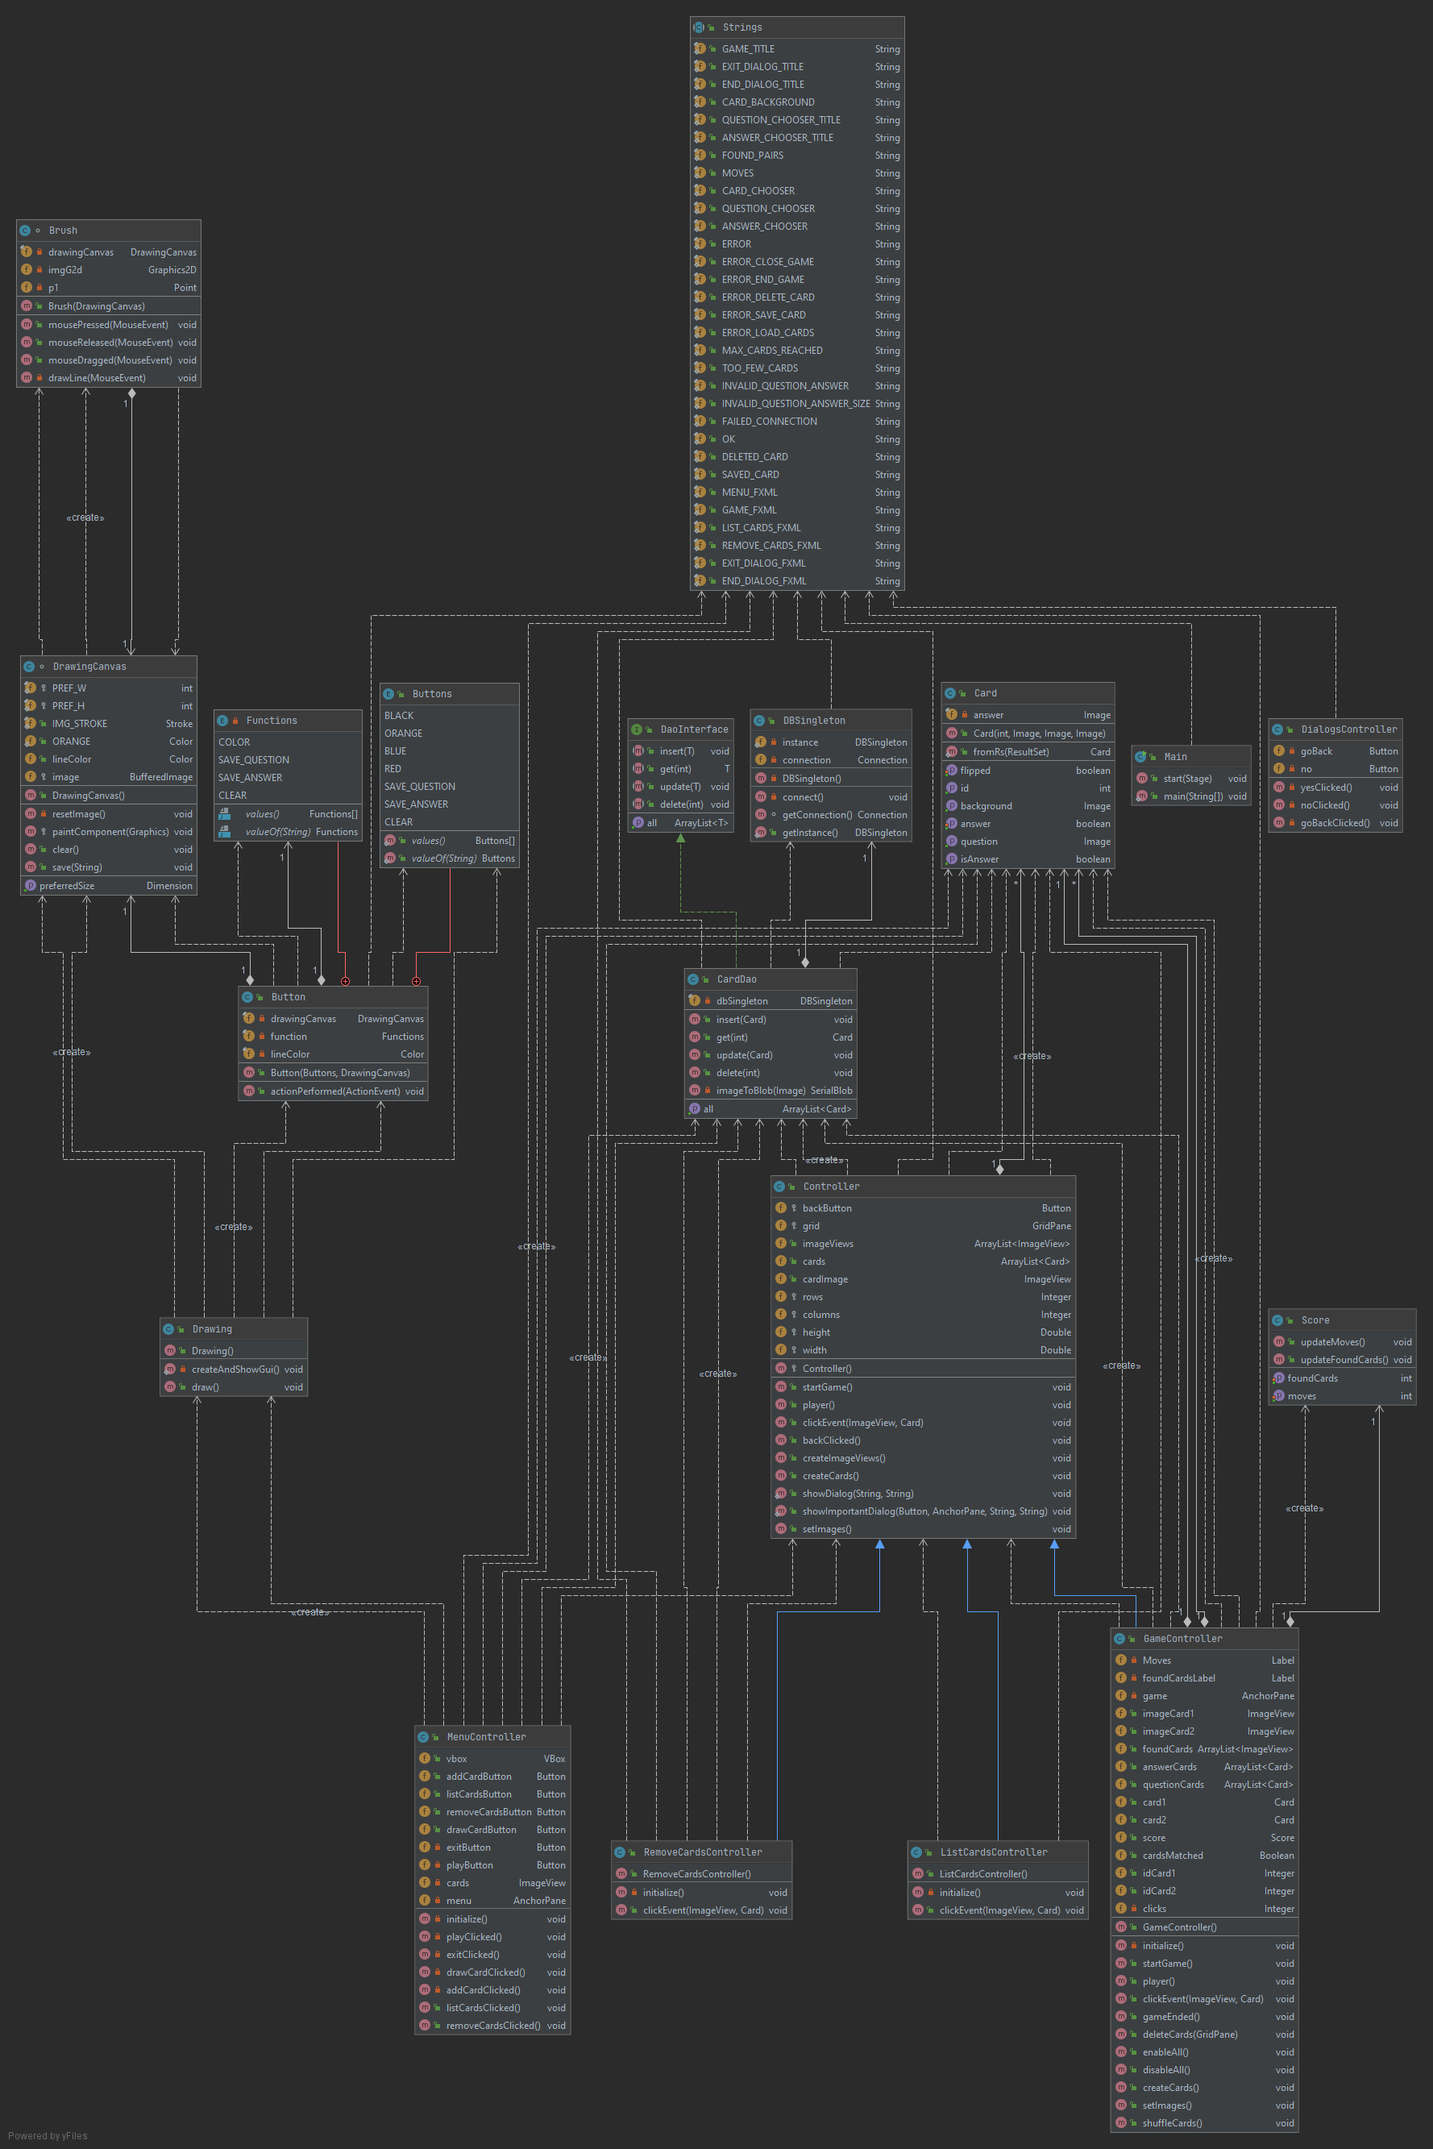
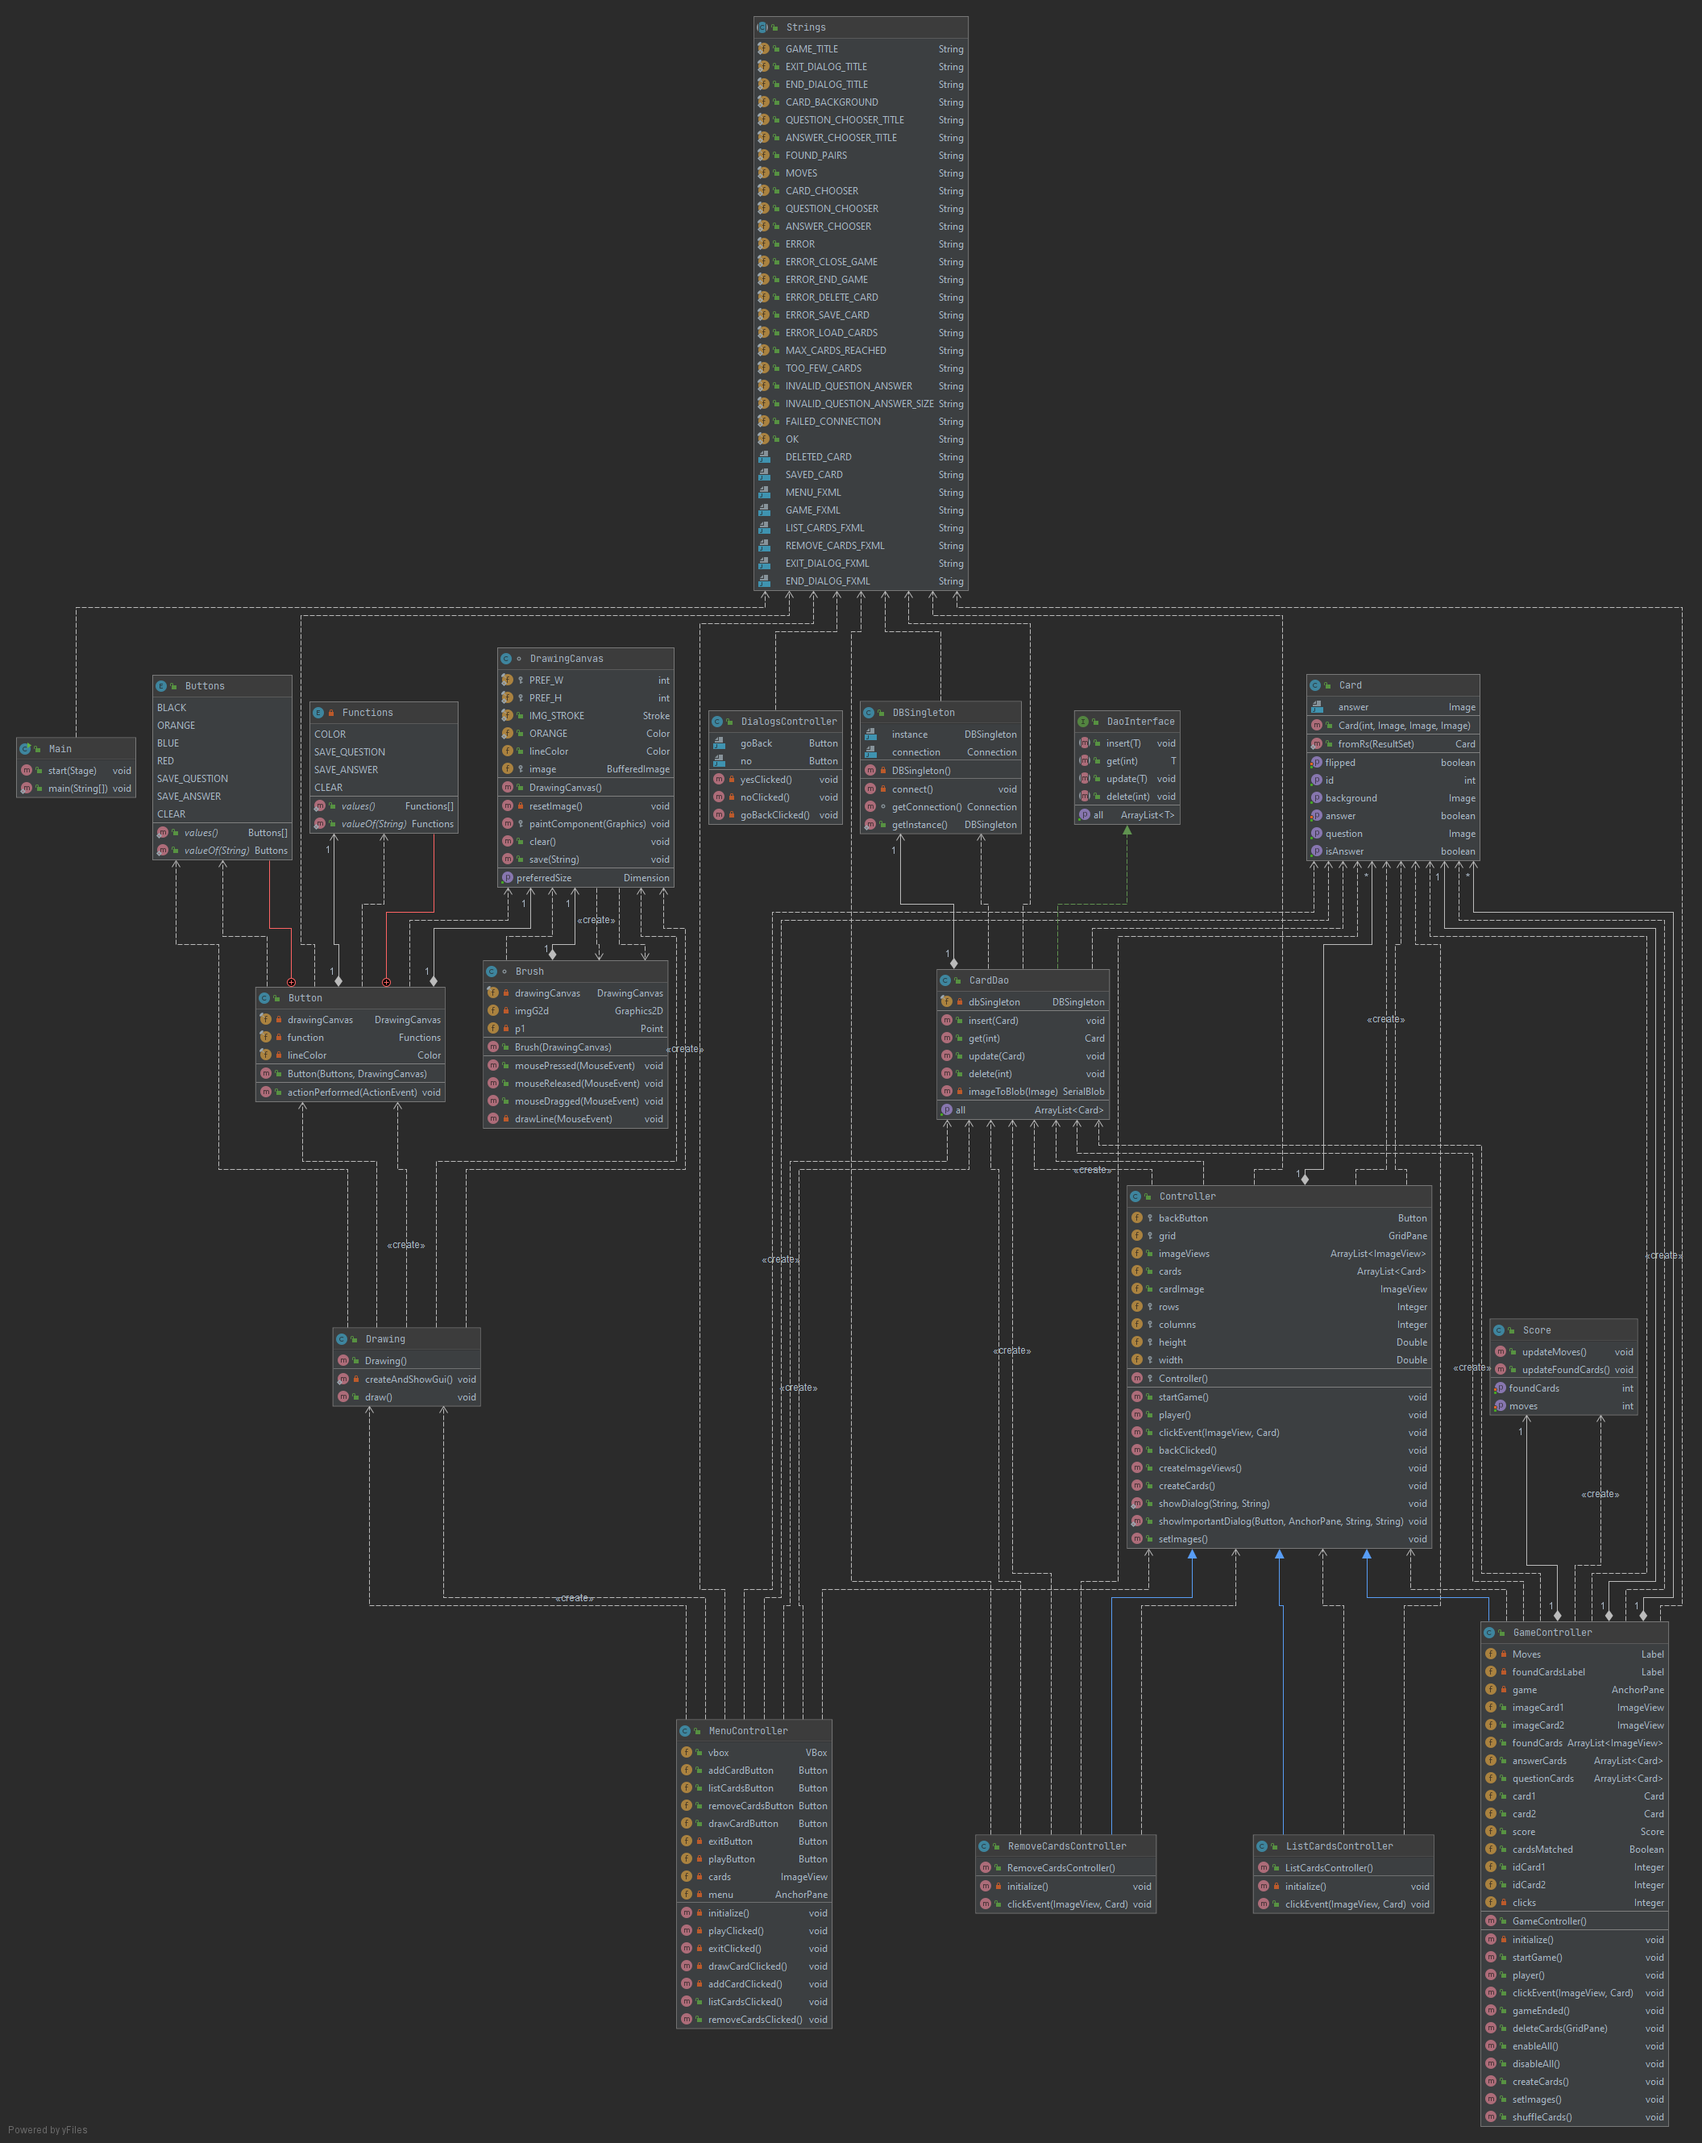
finished game

diff --git a/src/main/java/controllers/Controller.java b/src/main/java/controllers/Controller.java
@@ -1,4 +1,4 @@
-package models;
+package controllers;
 
 import daos.CardDao;
 import javafx.fxml.FXML;
@@ -15,6 +15,7 @@ import javafx.scene.paint.Color;
 import javafx.stage.Modality;
 import javafx.stage.Stage;
 import javafx.stage.StageStyle;
+import models.Card;
 import utils.Strings;
 
 import java.io.IOException;

diff --git a/src/main/java/controllers/ListCardsController.java b/src/main/java/controllers/ListCardsController.java
@@ -6,7 +6,6 @@ import javafx.scene.image.Image;
 import javafx.scene.image.ImageView;
 import javafx.util.Duration;
 import models.Card;
-import models.Controller;
 
 public class ListCardsController  extends Controller {
     public ListCardsController() {

diff --git a/src/main/java/controllers/GameController.java b/src/main/java/controllers/GameController.java
@@ -13,7 +13,6 @@ import javafx.scene.layout.GridPane;
 import javafx.util.Duration;
 import utils.Strings;
 import models.Card;
-import models.Controller;
 import models.Score;
 
 import java.sql.SQLException;

diff --git a/src/main/java/controllers/MenuController.java b/src/main/java/controllers/MenuController.java
@@ -14,7 +14,6 @@ import javafx.stage.Stage;
 import utils.draw.Drawing;
 import utils.Strings;
 import models.Card;
-import models.Controller;
 
 import java.io.File;
 import java.io.IOException;

diff --git a/src/main/java/controllers/RemoveCardsController.java b/src/main/java/controllers/RemoveCardsController.java
@@ -5,7 +5,6 @@ import javafx.fxml.FXML;
 import javafx.scene.image.ImageView;
 import utils.Strings;
 import models.Card;
-import models.Controller;
 
 import java.sql.SQLException;
 

diff --git a/src/main/java/utils/draw/Button.java b/src/main/java/utils/draw/Button.java
@@ -1,6 +1,5 @@
 package utils.draw;
 
-import models.Controller;
 import utils.Strings;
 
 import javax.swing.*;
